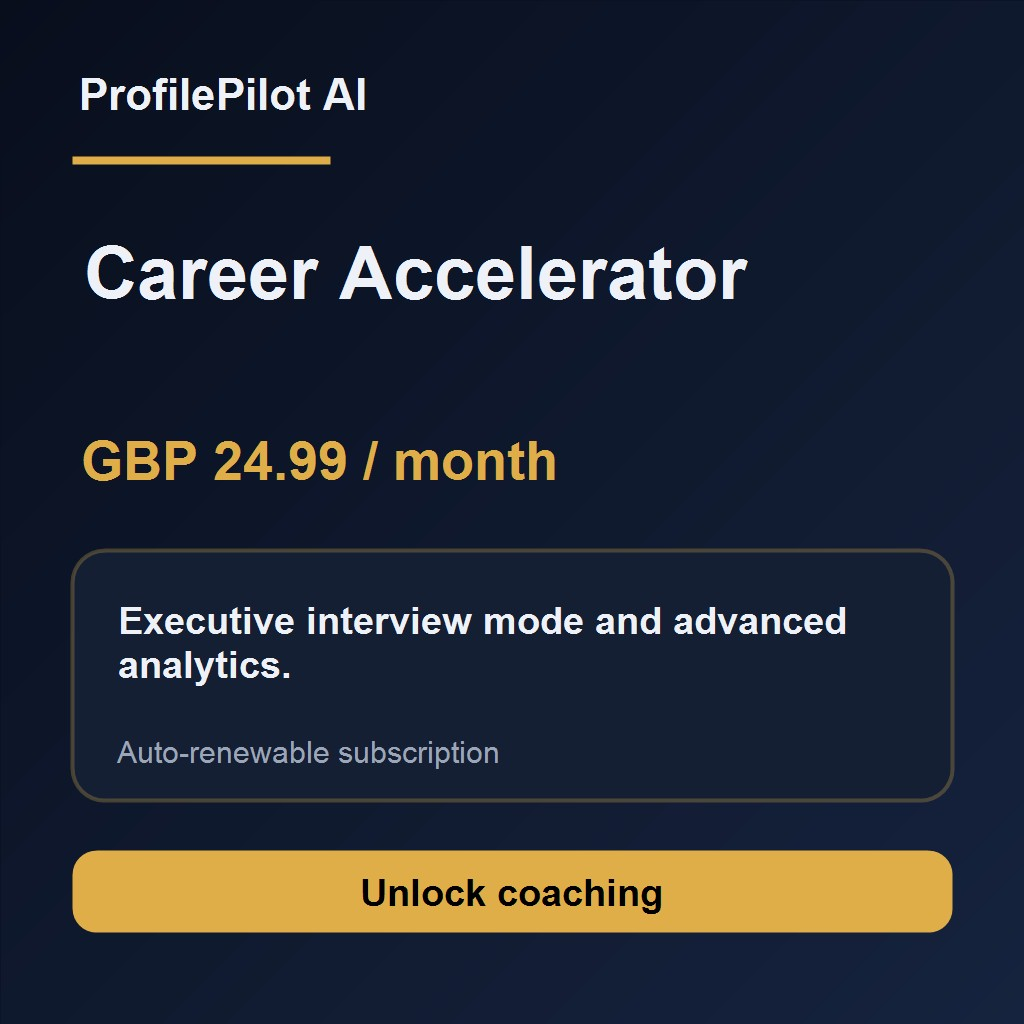
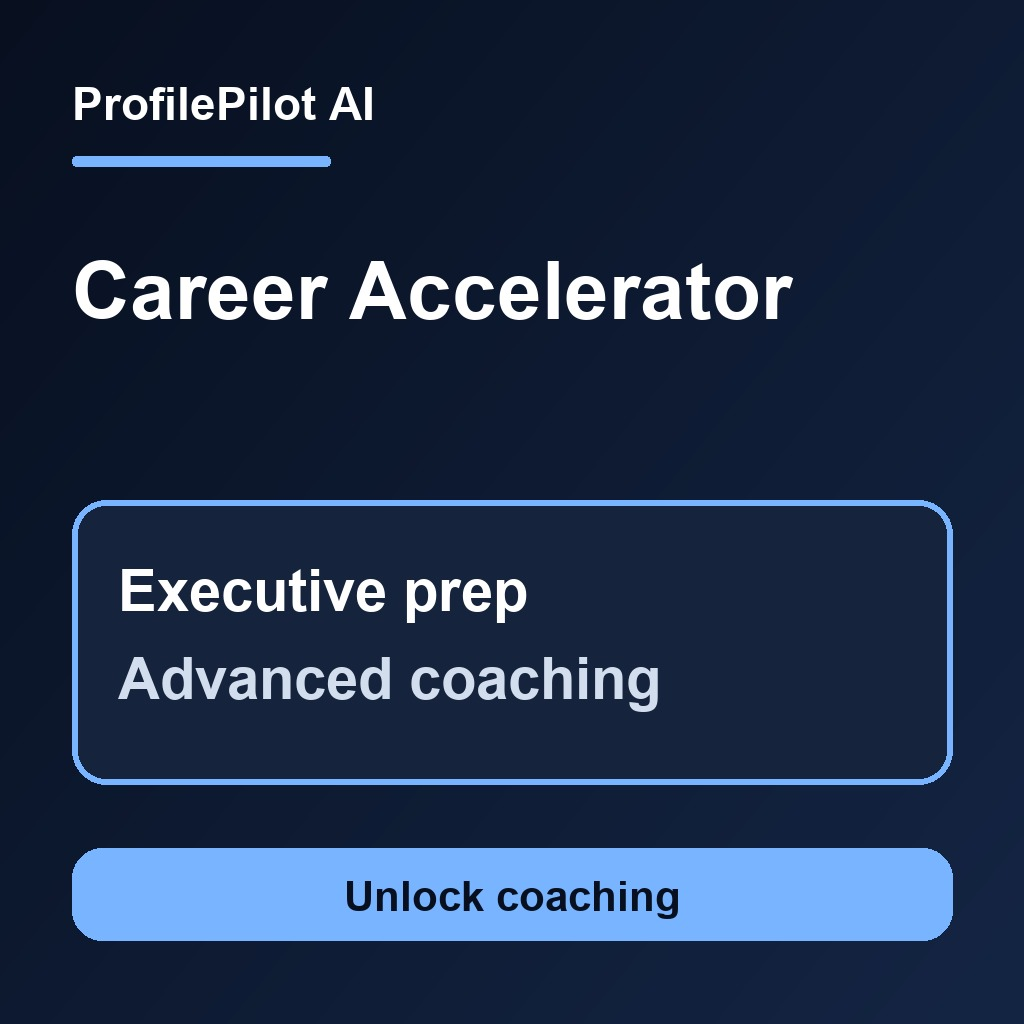
Fix promoted subscription images metadata [resubmit-asc]

diff --git a/.github/scripts/asc_resubmit_assets.py b/.github/scripts/asc_resubmit_assets.py
@@ -57,7 +57,9 @@ The paywall now uses Apple's native SubscriptionStoreView for Professional Month
 Privacy Policy: {PRIVACY_URL}
 Terms of Use: {TERMS_URL}
 
-The App Store screenshots have been replaced with actual in-app UI screenshots for iPhone and iPad. Subscription promotional images were replaced with larger, readable subscription-specific artwork. No sign-in is required; mock AI is enabled by default for review."""
+The App Store screenshots have been replaced with actual in-app UI screenshots for iPhone and iPad. Subscription promotional images were replaced with larger, readable subscription-specific artwork. No sign-in is required; mock AI is enabled by default for review.
+
+June 15 metadata update: promoted In-App Purchase images and subscription localization descriptions no longer include price or currency references. The promotional images use large, readable text only."""
 
 SCREENSHOT_SETS = {
     "APP_IPHONE_65": [
@@ -80,16 +82,22 @@ SUBSCRIPTION_ASSETS = {
     "profilepilot.professional.monthly": {
         "review": "ProfilePilotAI/Resources/Subscriptions/ReviewScreenshots/professional-monthly-review-1242x2688.jpg",
         "image": "ProfilePilotAI/Resources/Subscriptions/OptionalImages/professional-monthly-1024x1024.jpg",
+        "name": "Professional Coaching",
+        "description": "AI coaching and STAR examples",
         "note": "Professional Monthly uses SubscriptionStoreView and unlocks AI coaching, STAR examples and mock interviews. Mock AI is enabled by default for review.",
     },
     "profilepilot.professional.yearly": {
         "review": "ProfilePilotAI/Resources/Subscriptions/ReviewScreenshots/professional-yearly-review-1242x2688.jpg",
         "image": "ProfilePilotAI/Resources/Subscriptions/OptionalImages/professional-yearly-1024x1024.jpg",
+        "name": "Professional Toolkit",
+        "description": "Interview practice and career planning",
         "note": "Professional Yearly uses SubscriptionStoreView and unlocks AI coaching, STAR examples and mock interviews for one year. Mock AI is enabled by default for review.",
     },
     "profilepilot.accelerator.monthly": {
         "review": "ProfilePilotAI/Resources/Subscriptions/ReviewScreenshots/career-accelerator-review-1242x2688.jpg",
         "image": "ProfilePilotAI/Resources/Subscriptions/OptionalImages/career-accelerator-1024x1024.jpg",
+        "name": "Career Accelerator",
+        "description": "Executive prep and advanced coaching",
         "note": "Career Accelerator uses SubscriptionStoreView and unlocks advanced coaching, interview preparation and premium career planning. Mock AI is enabled by default for review.",
     },
 }
@@ -326,6 +334,7 @@ def delete_included(payload, resource_type, endpoint):
 def replace_subscription_assets():
     for product_id, subscription_id in subscription_ids_by_product_id().items():
         config = SUBSCRIPTION_ASSETS[product_id]
+        update_subscription_localizations(subscription_id, config["name"], config["description"])
         asc.request(
             "PATCH",
             f"/subscriptions/{subscription_id}",
@@ -361,6 +370,47 @@ def replace_subscription_assets():
             subscription_id,
             config["image"],
         )
+
+
+def update_subscription_localizations(subscription_id, name, description):
+    payload = asc.request("GET", f"/subscriptions/{subscription_id}/subscriptionLocalizations?limit=200")
+    localizations = payload.get("data", [])
+    if not localizations:
+        body = {
+            "data": {
+                "type": "subscriptionLocalizations",
+                "attributes": {
+                    "locale": "en-GB",
+                    "name": name,
+                    "description": description,
+                },
+                "relationships": {
+                    "subscription": {"data": {"type": "subscriptions", "id": subscription_id}}
+                },
+            }
+        }
+        created = asc.request("POST", "/subscriptionLocalizations", body)
+        print(f"Created subscription localization {created['data']['id']} for subscription {subscription_id}.")
+        return
+
+    for localization in localizations:
+        localization_id = localization["id"]
+        locale = localization.get("attributes", {}).get("locale", "")
+        asc.request(
+            "PATCH",
+            f"/subscriptionLocalizations/{localization_id}",
+            {
+                "data": {
+                    "type": "subscriptionLocalizations",
+                    "id": localization_id,
+                    "attributes": {
+                        "name": name,
+                        "description": description,
+                    },
+                }
+            },
+        )
+        print(f"Updated subscription localization {localization_id} ({locale}).")
 
 
 def attach_build_and_review_notes(version_id, build_id):
@@ -507,6 +557,9 @@ def main():
     version_id, localization_id = version_and_localization()
     if os.environ.get("SKIP_ASSET_REFRESH", "").lower() == "true":
         print("Skipping asset refresh; using existing App Store Connect metadata and media.")
+    elif os.environ.get("SUBSCRIPTION_ASSETS_ONLY", "").lower() == "true":
+        print("Refreshing subscription metadata and promotional images only.")
+        replace_subscription_assets()
     else:
         update_version_metadata(localization_id)
         replace_screenshots(localization_id)

diff --git a/ProfilePilotAI/Resources/AppStore/APP_STORE_CONNECT_METADATA.md b/ProfilePilotAI/Resources/AppStore/APP_STORE_CONNECT_METADATA.md
@@ -182,11 +182,13 @@ Display Name: Professional Monthly
 
 Description: Unlimited AI coaching, STAR builder, voice coaching, mock interviews and application generation.
 
-Price: GBP 12.99 per month
+Pricing: configured in App Store Connect. Do not include price text in promoted In-App Purchase images, display names or descriptions.
 
 Review screenshot: `ProfilePilotAI/Resources/Subscriptions/professional-monthly-1600x1200.png`
 
 Promotional image: `ProfilePilotAI/Resources/Subscriptions/OptionalImages/professional-monthly-1024x1024.jpg`
+Promoted display name: Professional Coaching
+Promoted description: AI coaching and STAR examples
 
 ### Professional Yearly
 
@@ -198,11 +200,13 @@ Display Name: Professional Yearly
 
 Description: Best value annual access to unlimited coaching, interview practice and STAR example generation.
 
-Price: GBP 99.99 per year
+Pricing: configured in App Store Connect. Do not include price text in promoted In-App Purchase images, display names or descriptions.
 
 Review screenshot: `ProfilePilotAI/Resources/Subscriptions/professional-yearly-1600x1200.png`
 
 Promotional image: `ProfilePilotAI/Resources/Subscriptions/OptionalImages/professional-yearly-1024x1024.jpg`
+Promoted display name: Professional Toolkit
+Promoted description: Interview practice and career planning
 
 ### Career Accelerator Monthly
 
@@ -214,11 +218,13 @@ Display Name: Career Accelerator
 
 Description: Advanced analytics, executive coaching modes, premium templates, simulations and career roadmap tools.
 
-Price: GBP 24.99 per month
+Pricing: configured in App Store Connect. Do not include price text in promoted In-App Purchase images, display names or descriptions.
 
 Review screenshot: `ProfilePilotAI/Resources/Subscriptions/career-accelerator-1600x1200.png`
 
 Promotional image: `ProfilePilotAI/Resources/Subscriptions/OptionalImages/career-accelerator-1024x1024.jpg`
+Promoted display name: Career Accelerator
+Promoted description: Executive prep and advanced coaching
 
 ## Subscription Group
 
